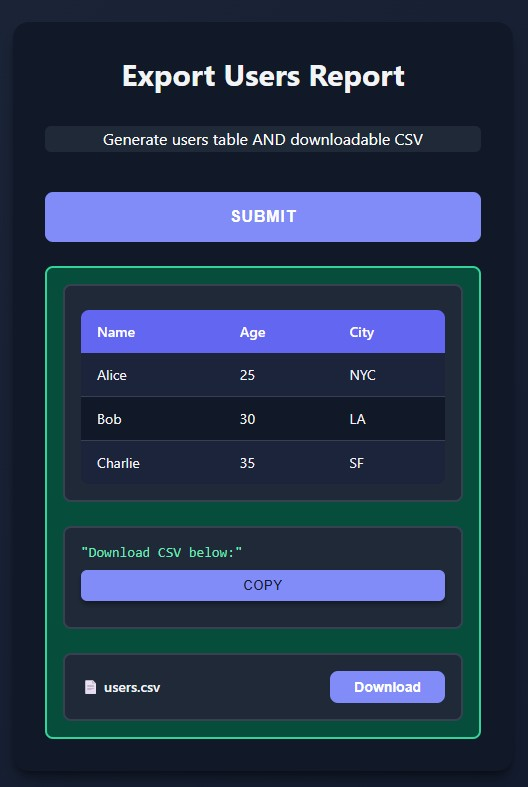
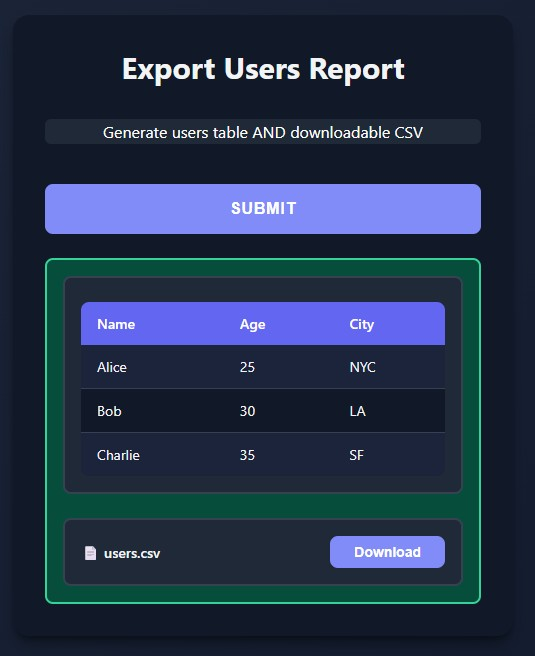
Deployed e7a522c with MkDocs version: 1.6.1

diff --git a/multiple-outputs/index.html b/multiple-outputs/index.html
@@ -67,9 +67,8 @@
 </span><span id=__span-1-23><a id=__codelineno-1-23 name=__codelineno-1-23 href=#__codelineno-1-23></a>
 </span><span id=__span-1-24><a id=__codelineno-1-24 name=__codelineno-1-24 href=#__codelineno-1-24></a>    <span class=k>return</span> <span class=p>(</span>
 </span><span id=__span-1-25><a id=__codelineno-1-25 name=__codelineno-1-25 href=#__codelineno-1-25></a>        <span class=n>users</span><span class=p>,</span>                    <span class=c1># Table display</span>
-</span><span id=__span-1-26><a id=__codelineno-1-26 name=__codelineno-1-26 href=#__codelineno-1-26></a>        <span class=s2>&quot;Download CSV below:&quot;</span><span class=p>,</span>    <span class=c1># Text</span>
-</span><span id=__span-1-27><a id=__codelineno-1-27 name=__codelineno-1-27 href=#__codelineno-1-27></a>        <span class=n>csv_file</span>                  <span class=c1># Download button</span>
-</span><span id=__span-1-28><a id=__codelineno-1-28 name=__codelineno-1-28 href=#__codelineno-1-28></a>    <span class=p>)</span>
-</span><span id=__span-1-29><a id=__codelineno-1-29 name=__codelineno-1-29 href=#__codelineno-1-29></a>
-</span><span id=__span-1-30><a id=__codelineno-1-30 name=__codelineno-1-30 href=#__codelineno-1-30></a><span class=n>run</span><span class=p>(</span><span class=n>export_users_report</span><span class=p>)</span>
+</span><span id=__span-1-26><a id=__codelineno-1-26 name=__codelineno-1-26 href=#__codelineno-1-26></a>        <span class=n>csv_file</span>                  <span class=c1># Download button</span>
+</span><span id=__span-1-27><a id=__codelineno-1-27 name=__codelineno-1-27 href=#__codelineno-1-27></a>    <span class=p>)</span>
+</span><span id=__span-1-28><a id=__codelineno-1-28 name=__codelineno-1-28 href=#__codelineno-1-28></a>
+</span><span id=__span-1-29><a id=__codelineno-1-29 name=__codelineno-1-29 href=#__codelineno-1-29></a><span class=n>run</span><span class=p>(</span><span class=n>export_users_report</span><span class=p>)</span>
 </span></code></pre></div></p> <p>Perfect for reports where you want to view AND download data.</p> </div> <div> <p><img alt="Combined Types" src=../images/multiple_table_file.jpg></p> </div> </div> <h2 id=supported-output-types>Supported Output Types</h2> <p>You can combine any of these in a tuple or list:</p> <ul> <li><strong>Text</strong>: Plain strings are displayed as formatted text</li> <li><strong>PIL Images</strong>: Automatically rendered inline</li> <li><strong>Matplotlib Figures</strong>: Converted to images and displayed</li> <li><strong>Tables</strong>: <code>list[dict]</code> or <code>list[tuple]</code> rendered as HTML tables</li> <li><strong>File Downloads</strong>: Show download buttons with filenames</li> <li><strong>Multiple Files</strong>: Lists of <code>FileResponse</code> objects</li> </ul> <h2 id=how-it-works>How It Works</h2> <ul> <li>Return a <strong>tuple</strong> or <strong>list</strong> from your function</li> <li>Each item is processed according to its type</li> <li>All outputs are displayed sequentially in the UI</li> <li>Each output gets its own styled container</li> <li>Works with any combination of types</li> </ul> <h2 id=limitations>Limitations</h2> <ul> <li><strong>No nesting</strong>: Tuples/lists cannot contain other tuples/lists (except valid tables)</li> <li><strong>Valid</strong>: <code>return (table_data, file)</code> where <code>table_data</code> is <code>list[dict]</code></li> <li><strong>Invalid</strong>: <code>return (("text", img), file)</code> - nested tuples not allowed</li> <li><strong>Solution</strong>: Flatten to <code>return ("text", img, file)</code></li> </ul> <h2 id=key-points>Key Points</h2> <ul> <li><strong>Flexible</strong>: Mix text, images, plots, tables, and files freely</li> <li><strong>Simple syntax</strong>: Just return a tuple or list</li> <li><strong>Clean UI</strong>: Each output in its own styled box</li> <li><strong>No configuration</strong>: Works automatically with existing types</li> <li><strong>Tables included</strong>: <code>list[dict]</code> or <code>list[tuple]</code> are automatically detected</li> </ul> <h2 id=whats-next>What's Next?</h2> <p>You've completed all <strong>Output Types</strong>! Explore additional features.</p> <p><strong>Next category:</strong></p> <ul> <li><a href=../function-descriptions/ >Function Descriptions</a> - Display docstrings in the UI</li> <li><a href=../multiple/ >Multiple Functions</a> - Serve multiple functions at once</li> <li><a href=../dark-mode/ >Dark Mode</a> - Automatic theme switching</li> <li><a href=../server-configuration/ >Server Configuration</a> - Customize server settings</li> </ul> </article> </div> <script>var target=document.getElementById(location.hash.slice(1));target&&target.name&&(target.checked=target.name.startsWith("__tabbed_"))</script> </div> <button type=button class="md-top md-icon" data-md-component=top hidden> <svg xmlns=http://www.w3.org/2000/svg viewbox="0 0 24 24"><path d="M13 20h-2V8l-5.5 5.5-1.42-1.42L12 4.16l7.92 7.92-1.42 1.42L13 8z"/></svg> Back to top </button> </main> <footer class=md-footer> <div class="md-footer-meta md-typeset"> <div class="md-footer-meta__inner md-grid"> <div class=md-copyright> Made with <a href=https://squidfunk.github.io/mkdocs-material/ target=_blank rel=noopener> Material for MkDocs </a> </div> <div class=md-social> <a href=https://github.com/offerrall/FuncToWeb target=_blank rel=noopener title=github.com class=md-social__link> <svg xmlns=http://www.w3.org/2000/svg viewbox="0 0 512 512"><!-- Font Awesome Free 7.1.0 by @fontawesome - https://fontawesome.com License - https://fontawesome.com/license/free (Icons: CC BY 4.0, Fonts: SIL OFL 1.1, Code: MIT License) Copyright 2025 Fonticons, Inc.--><path d="M173.9 397.4c0 2-2.3 3.6-5.2 3.6-3.3.3-5.6-1.3-5.6-3.6 0-2 2.3-3.6 5.2-3.6 3-.3 5.6 1.3 5.6 3.6m-31.1-4.5c-.7 2 1.3 4.3 4.3 4.9 2.6 1 5.6 0 6.2-2s-1.3-4.3-4.3-5.2c-2.6-.7-5.5.3-6.2 2.3m44.2-1.7c-2.9.7-4.9 2.6-4.6 4.9.3 2 2.9 3.3 5.9 2.6 2.9-.7 4.9-2.6 4.6-4.6-.3-1.9-3-3.2-5.9-2.9M252.8 8C114.1 8 8 113.3 8 252c0 110.9 69.8 205.8 169.5 239.2 12.8 2.3 17.3-5.6 17.3-12.1 0-6.2-.3-40.4-.3-61.4 0 0-70 15-84.7-29.8 0 0-11.4-29.1-27.8-36.6 0 0-22.9-15.7 1.6-15.4 0 0 24.9 2 38.6 25.8 21.9 38.6 58.6 27.5 72.9 20.9 2.3-16 8.8-27.1 16-33.7-55.9-6.2-112.3-14.3-112.3-110.5 0-27.5 7.6-41.3 23.6-58.9-2.6-6.5-11.1-33.3 2.6-67.9 20.9-6.5 69 27 69 27 20-5.6 41.5-8.5 62.8-8.5s42.8 2.9 62.8 8.5c0 0 48.1-33.6 69-27 13.7 34.7 5.2 61.4 2.6 67.9 16 17.7 25.8 31.5 25.8 58.9 0 96.5-58.9 104.2-114.8 110.5 9.2 7.9 17 22.9 17 46.4 0 33.7-.3 75.4-.3 83.6 0 6.5 4.6 14.4 17.3 12.1C436.2 457.8 504 362.9 504 252 504 113.3 391.5 8 252.8 8M105.2 352.9c-1.3 1-1 3.3.7 5.2 1.6 1.6 3.9 2.3 5.2 1 1.3-1 1-3.3-.7-5.2-1.6-1.6-3.9-2.3-5.2-1m-10.8-8.1c-.7 1.3.3 2.9 2.3 3.9 1.6 1 3.6.7 4.3-.7.7-1.3-.3-2.9-2.3-3.9-2-.6-3.6-.3-4.3.7m32.4 35.6c-1.6 1.3-1 4.3 1.3 6.2 2.3 2.3 5.2 2.6 6.5 1 1.3-1.3.7-4.3-1.3-6.2-2.2-2.3-5.2-2.6-6.5-1m-11.4-14.7c-1.6 1-1.6 3.6 0 5.9s4.3 3.3 5.6 2.3c1.6-1.3 1.6-3.9 0-6.2-1.4-2.3-4-3.3-5.6-2"/></svg> </a> <a href=https://twitter.com/offerrall target=_blank rel=noopener title=twitter.com class=md-social__link> <svg xmlns=http://www.w3.org/2000/svg viewbox="0 0 512 512"><!-- Font Awesome Free 7.1.0 by @fontawesome - https://fontawesome.com License - https://fontawesome.com/license/free (Icons: CC BY 4.0, Fonts: SIL OFL 1.1, Code: MIT License) Copyright 2025 Fonticons, Inc.--><path d="M459.4 151.7c.3 4.5.3 9.1.3 13.6 0 138.7-105.6 298.6-298.6 298.6-59.5 0-114.7-17.2-161.1-47.1 8.4 1 16.6 1.3 25.3 1.3 49.1 0 94.2-16.6 130.3-44.8-46.1-1-84.8-31.2-98.1-72.8 6.5 1 13 1.6 19.8 1.6 9.4 0 18.8-1.3 27.6-3.6-48.1-9.7-84.1-52-84.1-103v-1.3c14 7.8 30.2 12.7 47.4 13.3-28.3-18.8-46.8-51-46.8-87.4 0-19.5 5.2-37.4 14.3-53C87.4 130.8 165 172.4 252.1 176.9c-1.6-7.8-2.6-15.9-2.6-24C249.5 95.1 296.3 48 354.4 48c30.2 0 57.5 12.7 76.7 33.1 23.7-4.5 46.5-13.3 66.6-25.3-7.8 24.4-24.4 44.8-46.1 57.8 21.1-2.3 41.6-8.1 60.4-16.2-14.3 20.8-32.2 39.3-52.6 54.3"/></svg> </a> </div> </div> </div> </footer> </div> <div class=md-dialog data-md-component=dialog> <div class="md-dialog__inner md-typeset"></div> </div> <script id=__config type=application/json>{"annotate": null, "base": "..", "features": ["navigation.tabs", "navigation.sections", "navigation.indexes", "content.code.copy", "content.code.annotate", "toc.integrate", "navigation.tabs.sticky", "navigation.top", {"hide": ["toc.title"]}], "search": "../assets/javascripts/workers/search.7a47a382.min.js", "tags": null, "translations": {"clipboard.copied": "Copied to clipboard", "clipboard.copy": "Copy to clipboard", "search.result.more.one": "1 more on this page", "search.result.more.other": "# more on this page", "search.result.none": "No matching documents", "search.result.one": "1 matching document", "search.result.other": "# matching documents", "search.result.placeholder": "Type to start searching", "search.result.term.missing": "Missing", "select.version": "Select version"}, "version": null}</script> <script src=../assets/javascripts/bundle.e71a0d61.min.js></script> </body> </html>
